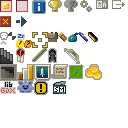
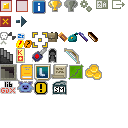
Some item updates

Changed region(s): [[0.125, 0.375, 0.375, 0.6562], [0.4062, 0.625, 0.5312, 0.75]]

diff --git a/core/src/main/java/com/shatteredpixel/shatteredpixeldungeon/scenes/TitleScene.java b/core/src/main/java/com/shatteredpixel/shatteredpixeldungeon/scenes/TitleScene.java
@@ -178,7 +178,7 @@ public class TitleScene extends PixelScene {
 				ShatteredPixelDungeon.switchNoFade( AboutScene.class );
 			}
 		};
-		btnAbout.icon(Icons.get(Icons.SHPX));
+		btnAbout.icon(Icons.get(Icons.SM));
 		add(btnAbout);
 		
 		final int BTN_HEIGHT = 21;
@@ -204,7 +204,7 @@ public class TitleScene extends PixelScene {
 			btnSupport.setRect(btnPlay.left(), btnAbout.bottom()+ GAP, btnPlay.width(), BTN_HEIGHT);
 		}
 //		Game.version, pixelFont);
-		BitmapText version = new BitmapText( "vSM-0.1",pixelFont);
+		BitmapText version = new BitmapText( "vSM-0.2",pixelFont);
 		version.measure();
 		version.hardlight( 0x888888 );
 		version.x = w - version.width() - 4;

diff --git a/core/src/main/java/com/shatteredpixel/shatteredpixeldungeon/sprites/ItemSpriteSheet.java b/core/src/main/java/com/shatteredpixel/shatteredpixeldungeon/sprites/ItemSpriteSheet.java
@@ -663,7 +663,7 @@ public class ItemSpriteSheet {
 	public static final int BANDOLIER   = BAGS+3;
 	public static final int HOLSTER     = BAGS+4;
 	static{
-		assignItemRect(VIAL,        12, 12);
+		assignItemRect(VIAL,        12, 15);
 		assignItemRect(POUCH,       14, 15);
 		assignItemRect(HOLDER,      16, 16);
 		assignItemRect(BANDOLIER,   15, 16);
